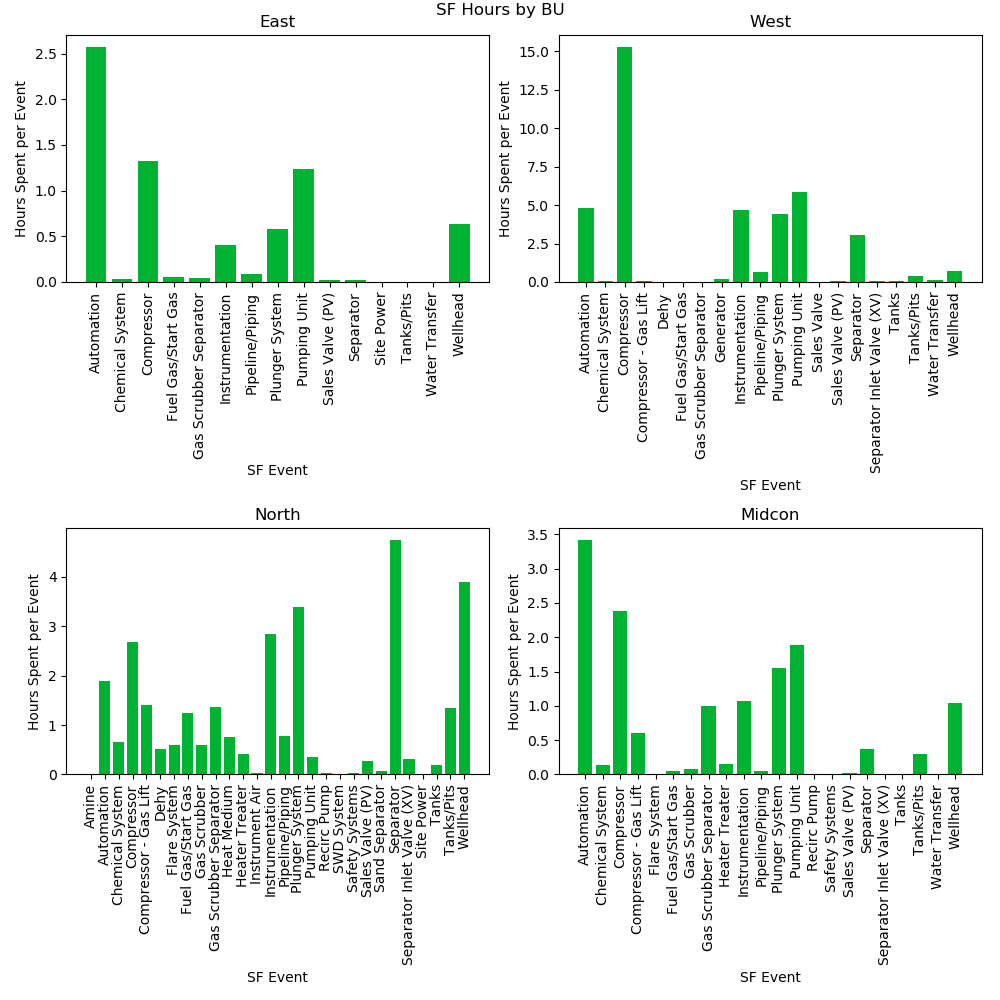
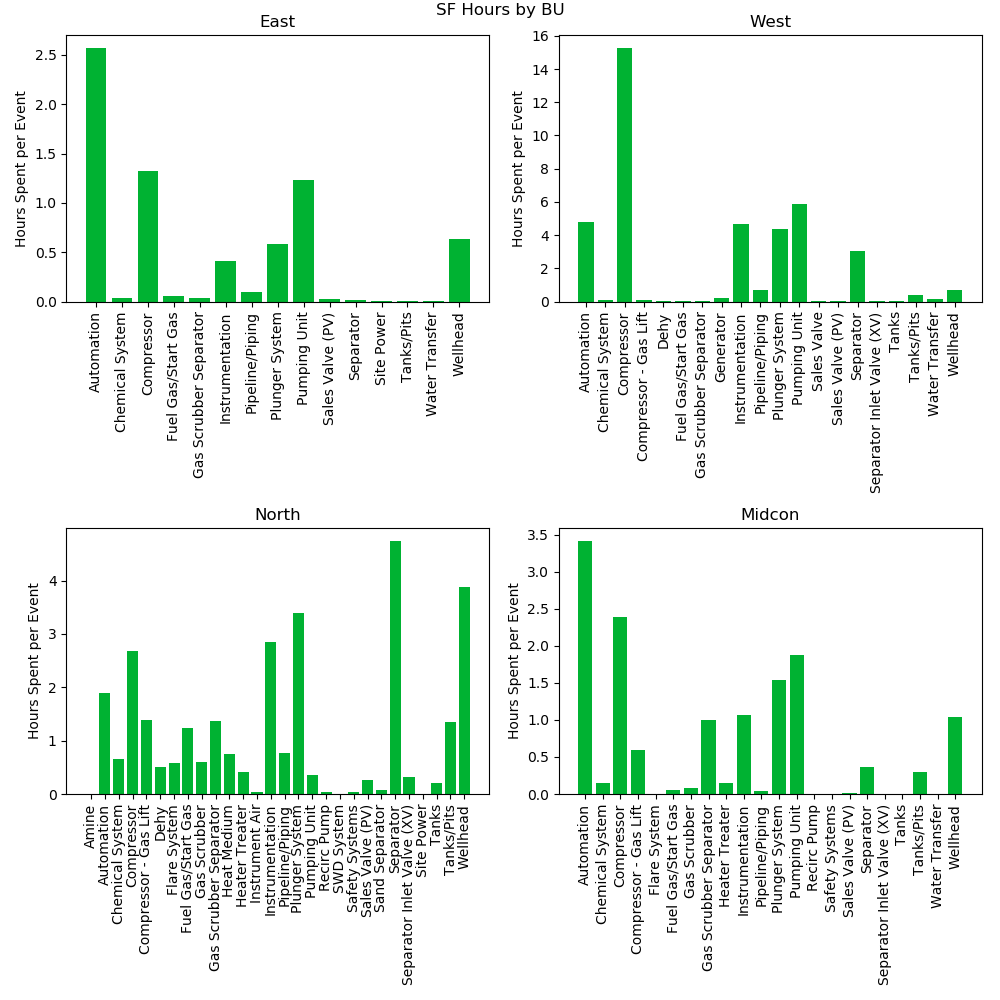
updating sf graphs

diff --git a/sf.py b/sf.py
@@ -36,7 +36,7 @@ def sf_dist(df, graph_per='total'):
 		axis.xaxis.set_visible(True)
 		axis.yaxis.set_visible(True)
 		plt.setp(axis.xaxis.get_majorticklabels(), rotation=90)
-		axis.set_xlabel('SF Event')
+		# axis.set_xlabel('SF Event')
 		axis.set_ylabel('Hours Spent per Event{}'.format(graph_title))
 
 	plt.suptitle('SF Hours by BU', y=.997)
